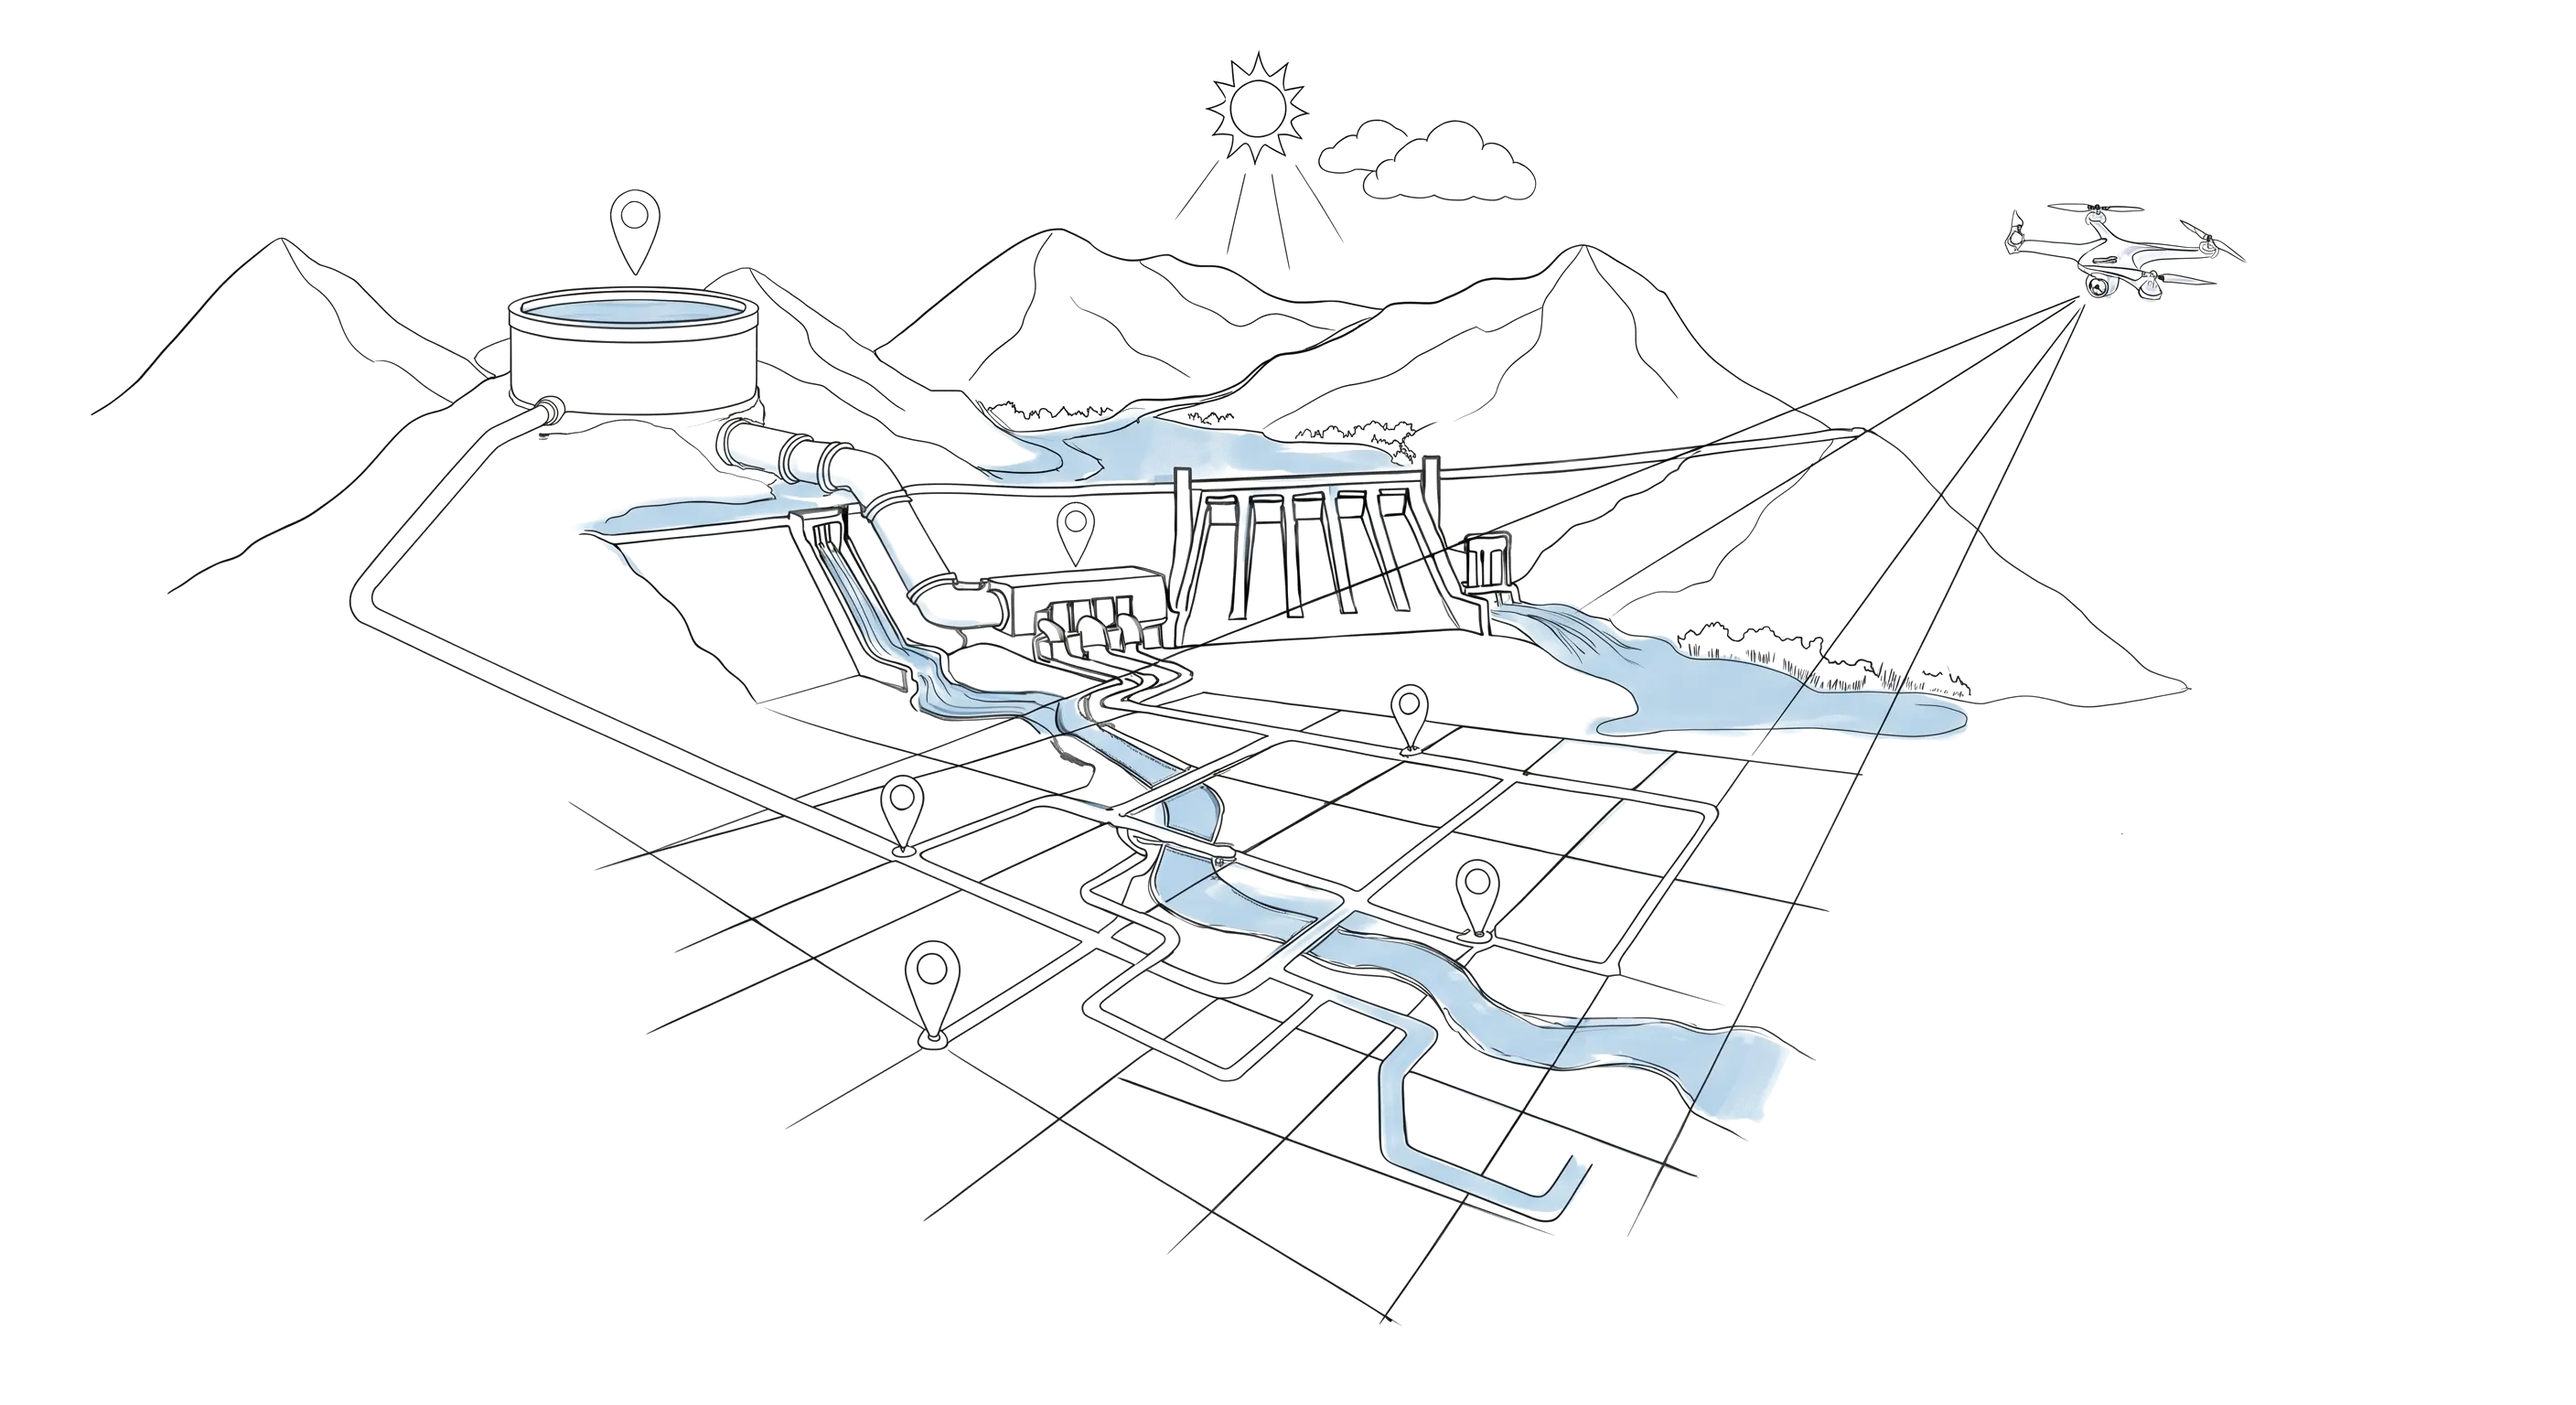
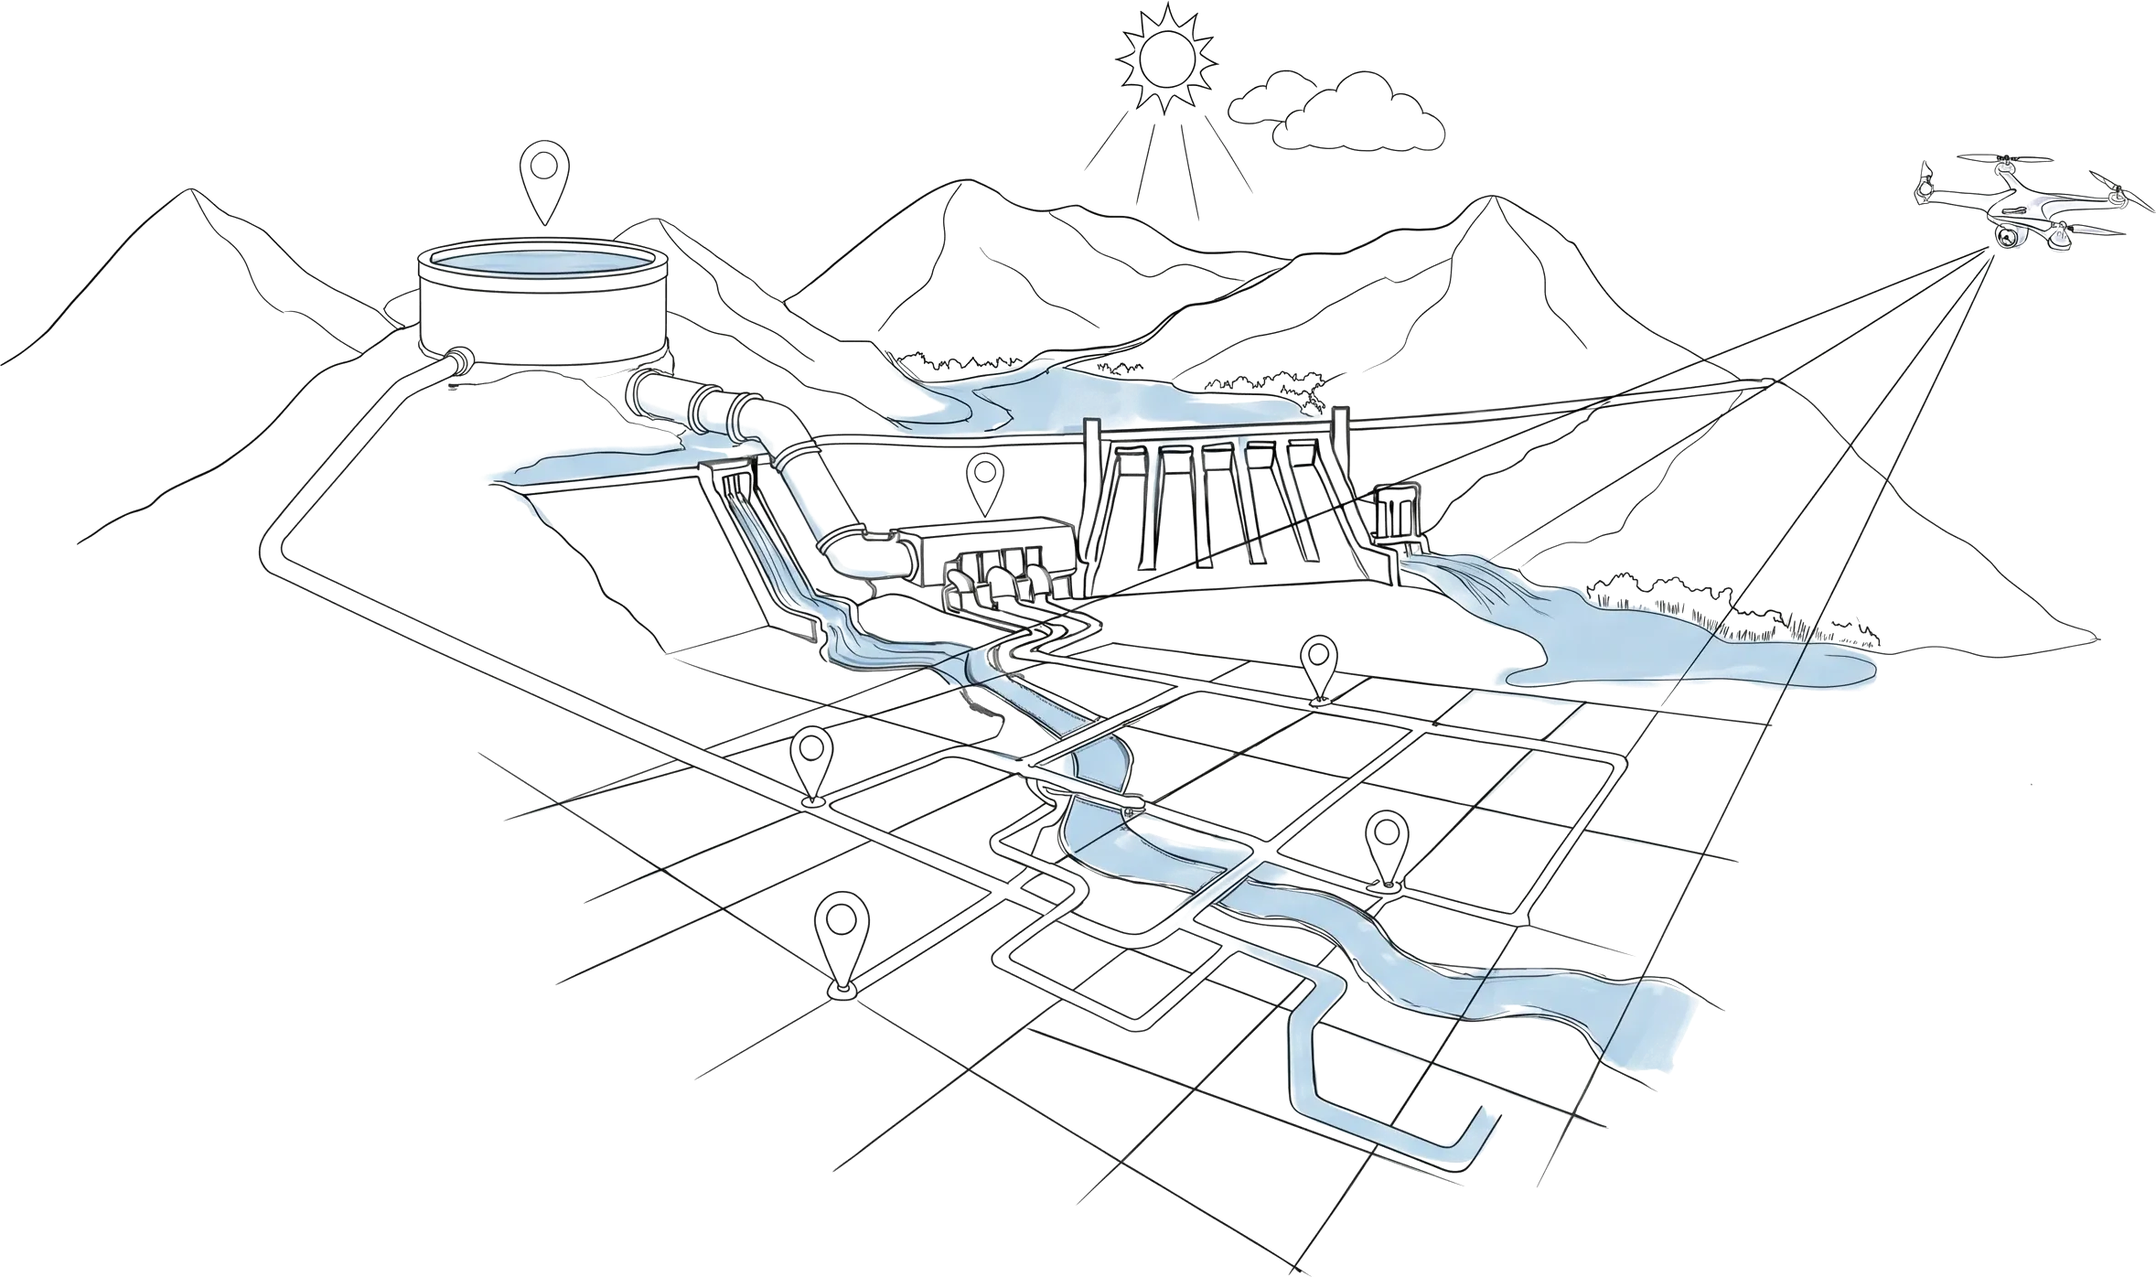
Trim transparent margins so illustration fills its box and sits centered
The source webp had lopsided transparent padding (99px left vs 360px
right), which pushed the artwork to the left inside its box and left a
large empty gap on the right — making it look off-center. Cropped both
HQ and LQ to the content bounding box (2357x1396) so the drawing now
touches all box edges and fills the right column symmetrically. Updated
the img aspect-ratio to match the new crop.

diff --git a/assets/css/main.css b/assets/css/main.css
@@ -337,7 +337,7 @@ html { scrollbar-width: thin; scrollbar-color: #A8CE2E #1A3D2C; }
   margin-bottom: clamp(24px, 4vw, 60px);
   position: relative;
 }
-.about-right img { width: 100%; height: auto; display: block; aspect-ratio: 2816 / 1536; }
+.about-right img { width: 100%; height: auto; display: block; aspect-ratio: 2357 / 1396; }
 
 /* ─── EXPERTISE ──────────────────────────────────────────── */
 .expertise { background: var(--dk); padding: var(--sec-py) 0; color: var(--text-lt); position: relative; z-index: 1; }

diff --git a/index.html b/index.html
@@ -19,7 +19,7 @@
 <link rel="preconnect" href="https://fonts.googleapis.com">
 <link rel="preconnect" href="https://fonts.gstatic.com" crossorigin>
 <link href="https://fonts.googleapis.com/css2?family=Poppins:ital,wght@0,200;0,300;0,400;0,500;0,600;0,700;1,300&display=swap" rel="stylesheet">
-<link rel="stylesheet" href="assets/css/main.css?v=52">
+<link rel="stylesheet" href="assets/css/main.css?v=53">
 </head>
 <body>
 
